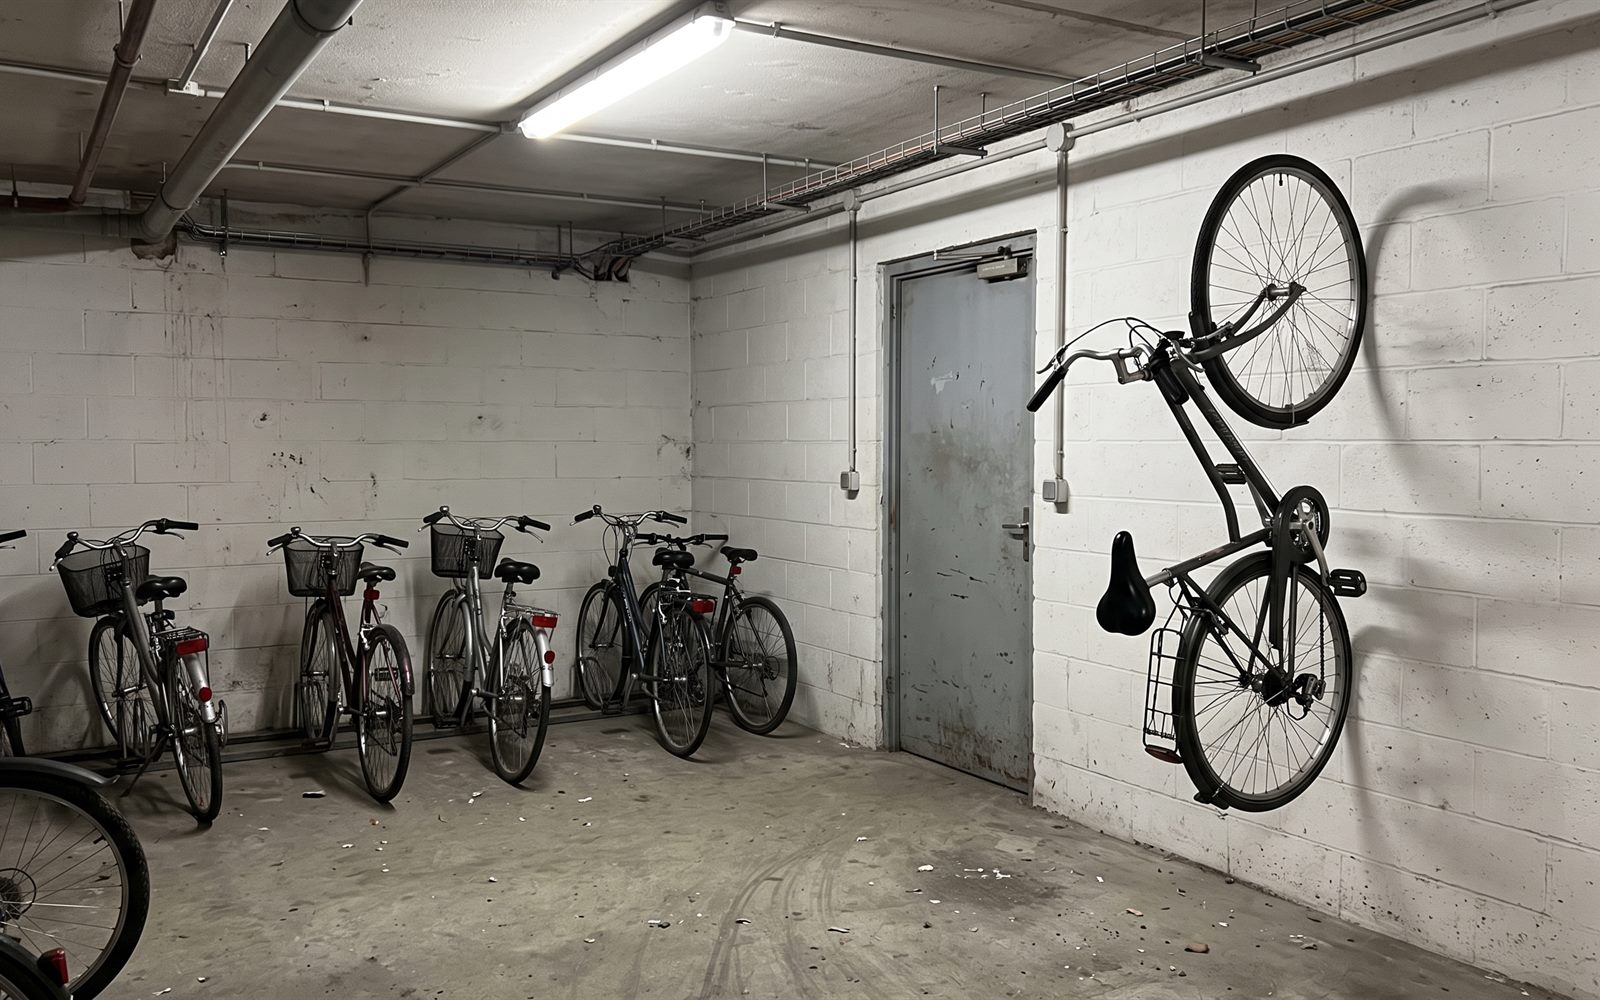
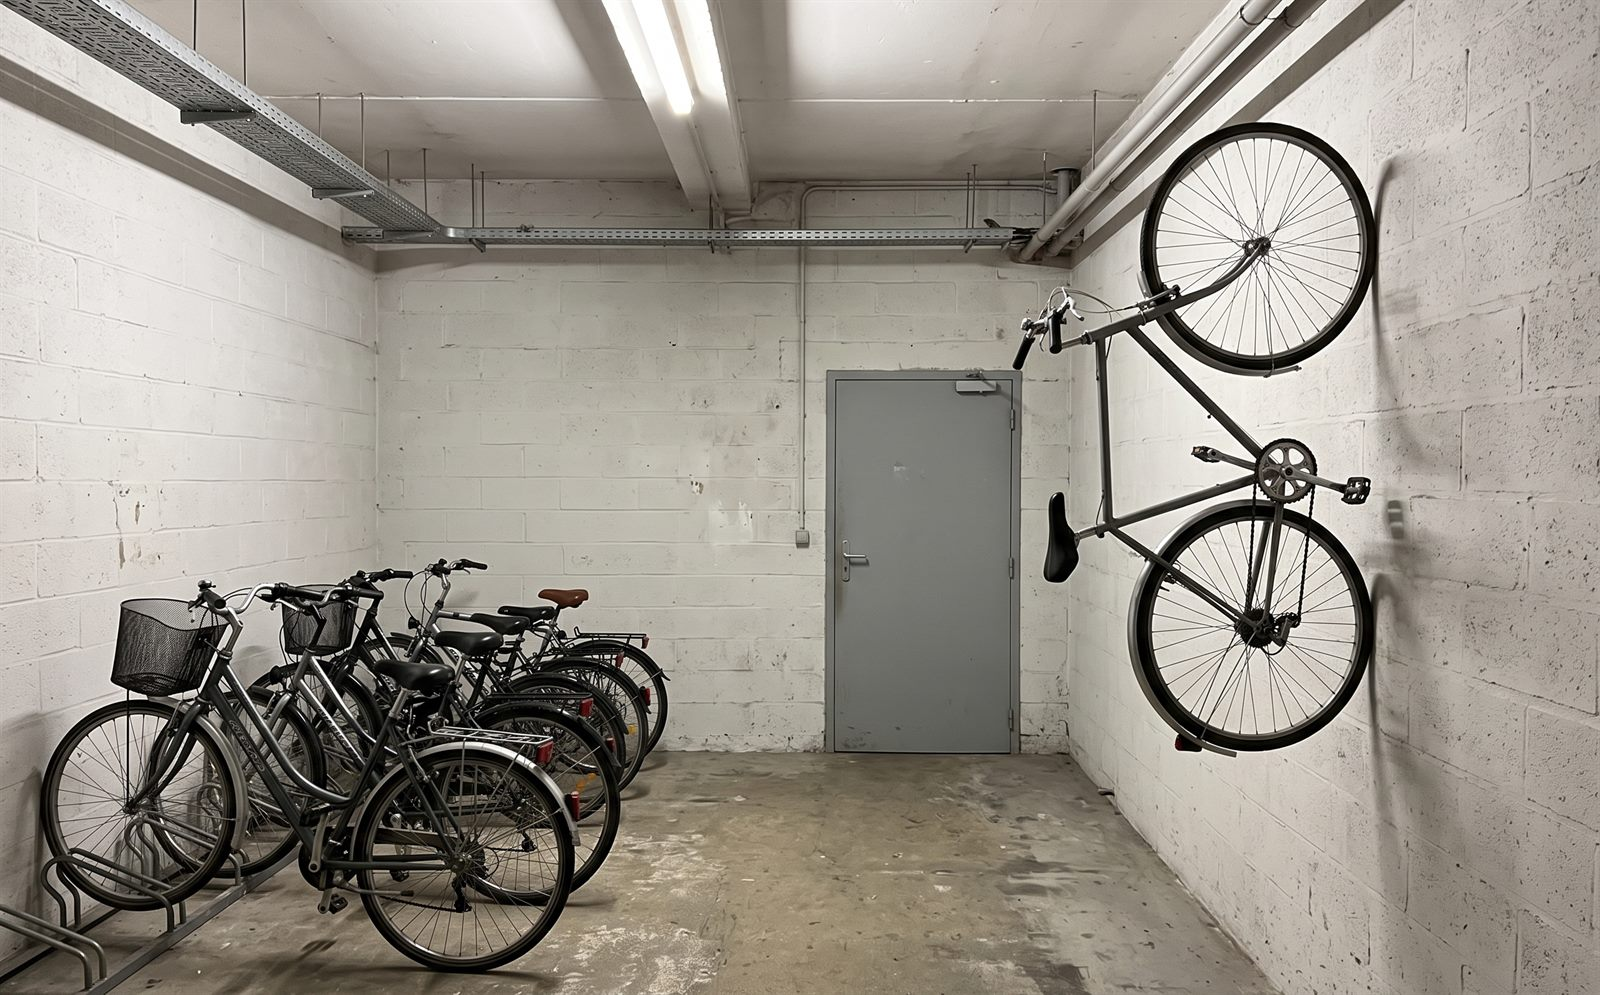
Photo version verticale : vélo vraiment en hauteur

diff --git a/mentions-legales.html b/mentions-legales.html
@@ -13,12 +13,12 @@
   <link rel="icon" href="assets/img/favicon.svg" type="image/svg+xml">
   <link rel="icon" href="assets/img/favicon-32.png" sizes="32x32" type="image/png">
   <link rel="apple-touch-icon" href="assets/img/apple-touch-icon.png">
-  <link rel="stylesheet" href="assets/css/style.css?v=202610162224">
-  <script src="assets/js/config.js?v=202610162224" defer></script>
-  <script src="assets/js/lang/fr.js?v=202610162224" defer></script>
-  <script src="assets/js/i18n.js?v=202610162224" defer></script>
-  <script src="assets/js/consent.js?v=202610162224" defer></script>
-  <script src="assets/js/main.js?v=202610162224" defer></script>
+  <link rel="stylesheet" href="assets/css/style.css?v=202610162228">
+  <script src="assets/js/config.js?v=202610162228" defer></script>
+  <script src="assets/js/lang/fr.js?v=202610162228" defer></script>
+  <script src="assets/js/i18n.js?v=202610162228" defer></script>
+  <script src="assets/js/consent.js?v=202610162228" defer></script>
+  <script src="assets/js/main.js?v=202610162228" defer></script>
 </head>
 <body data-page="mentions">
   <a class="skip-link" href="#contenu" data-i18n="skip">Aller au contenu</a>

diff --git a/confidentialite.html b/confidentialite.html
@@ -13,12 +13,12 @@
   <link rel="icon" href="assets/img/favicon.svg" type="image/svg+xml">
   <link rel="icon" href="assets/img/favicon-32.png" sizes="32x32" type="image/png">
   <link rel="apple-touch-icon" href="assets/img/apple-touch-icon.png">
-  <link rel="stylesheet" href="assets/css/style.css?v=202610162224">
-  <script src="assets/js/config.js?v=202610162224" defer></script>
-  <script src="assets/js/lang/fr.js?v=202610162224" defer></script>
-  <script src="assets/js/i18n.js?v=202610162224" defer></script>
-  <script src="assets/js/consent.js?v=202610162224" defer></script>
-  <script src="assets/js/main.js?v=202610162224" defer></script>
+  <link rel="stylesheet" href="assets/css/style.css?v=202610162228">
+  <script src="assets/js/config.js?v=202610162228" defer></script>
+  <script src="assets/js/lang/fr.js?v=202610162228" defer></script>
+  <script src="assets/js/i18n.js?v=202610162228" defer></script>
+  <script src="assets/js/consent.js?v=202610162228" defer></script>
+  <script src="assets/js/main.js?v=202610162228" defer></script>
 </head>
 <body data-page="privacy">
   <a class="skip-link" href="#contenu" data-i18n="skip">Aller au contenu</a>

diff --git a/cookies.html b/cookies.html
@@ -13,12 +13,12 @@
   <link rel="icon" href="assets/img/favicon.svg" type="image/svg+xml">
   <link rel="icon" href="assets/img/favicon-32.png" sizes="32x32" type="image/png">
   <link rel="apple-touch-icon" href="assets/img/apple-touch-icon.png">
-  <link rel="stylesheet" href="assets/css/style.css?v=202610162224">
-  <script src="assets/js/config.js?v=202610162224" defer></script>
-  <script src="assets/js/lang/fr.js?v=202610162224" defer></script>
-  <script src="assets/js/i18n.js?v=202610162224" defer></script>
-  <script src="assets/js/consent.js?v=202610162224" defer></script>
-  <script src="assets/js/main.js?v=202610162224" defer></script>
+  <link rel="stylesheet" href="assets/css/style.css?v=202610162228">
+  <script src="assets/js/config.js?v=202610162228" defer></script>
+  <script src="assets/js/lang/fr.js?v=202610162228" defer></script>
+  <script src="assets/js/i18n.js?v=202610162228" defer></script>
+  <script src="assets/js/consent.js?v=202610162228" defer></script>
+  <script src="assets/js/main.js?v=202610162228" defer></script>
 </head>
 <body data-page="cookies">
   <a class="skip-link" href="#contenu" data-i18n="skip">Aller au contenu</a>

diff --git a/cgu.html b/cgu.html
@@ -13,12 +13,12 @@
   <link rel="icon" href="assets/img/favicon.svg" type="image/svg+xml">
   <link rel="icon" href="assets/img/favicon-32.png" sizes="32x32" type="image/png">
   <link rel="apple-touch-icon" href="assets/img/apple-touch-icon.png">
-  <link rel="stylesheet" href="assets/css/style.css?v=202610162224">
-  <script src="assets/js/config.js?v=202610162224" defer></script>
-  <script src="assets/js/lang/fr.js?v=202610162224" defer></script>
-  <script src="assets/js/i18n.js?v=202610162224" defer></script>
-  <script src="assets/js/consent.js?v=202610162224" defer></script>
-  <script src="assets/js/main.js?v=202610162224" defer></script>
+  <link rel="stylesheet" href="assets/css/style.css?v=202610162228">
+  <script src="assets/js/config.js?v=202610162228" defer></script>
+  <script src="assets/js/lang/fr.js?v=202610162228" defer></script>
+  <script src="assets/js/i18n.js?v=202610162228" defer></script>
+  <script src="assets/js/consent.js?v=202610162228" defer></script>
+  <script src="assets/js/main.js?v=202610162228" defer></script>
 </head>
 <body data-page="terms">
   <a class="skip-link" href="#contenu" data-i18n="skip">Aller au contenu</a>

diff --git a/index.html b/index.html
@@ -30,12 +30,12 @@
   <link rel="icon" href="assets/img/favicon.svg" type="image/svg+xml">
   <link rel="icon" href="assets/img/favicon-32.png" sizes="32x32" type="image/png">
   <link rel="apple-touch-icon" href="assets/img/apple-touch-icon.png">
-  <link rel="stylesheet" href="assets/css/style.css?v=202610162224">
-  <script src="assets/js/config.js?v=202610162224" defer></script>
-  <script src="assets/js/lang/fr.js?v=202610162224" defer></script>
-  <script src="assets/js/i18n.js?v=202610162224" defer></script>
-  <script src="assets/js/consent.js?v=202610162224" defer></script>
-  <script src="assets/js/main.js?v=202610162224" defer></script>
+  <link rel="stylesheet" href="assets/css/style.css?v=202610162228">
+  <script src="assets/js/config.js?v=202610162228" defer></script>
+  <script src="assets/js/lang/fr.js?v=202610162228" defer></script>
+  <script src="assets/js/i18n.js?v=202610162228" defer></script>
+  <script src="assets/js/consent.js?v=202610162228" defer></script>
+  <script src="assets/js/main.js?v=202610162228" defer></script>
 </head>
 <body data-page="index">
   <a class="skip-link" href="#contenu" data-i18n="skip">Aller au contenu</a>

diff --git a/404.html b/404.html
@@ -12,12 +12,12 @@
   <!-- Chemins absolus : cette page peut s'afficher à n'importe quelle adresse du site -->
   <link rel="icon" href="/assets/img/favicon.svg" type="image/svg+xml">
   <link rel="icon" href="/assets/img/favicon-32.png" sizes="32x32" type="image/png">
-  <link rel="stylesheet" href="/assets/css/style.css?v=202610162224">
-  <script src="/assets/js/config.js?v=202610162224" defer></script>
-  <script src="/assets/js/lang/fr.js?v=202610162224" defer></script>
-  <script src="/assets/js/i18n.js?v=202610162224" defer></script>
-  <script src="/assets/js/consent.js?v=202610162224" defer></script>
-  <script src="/assets/js/main.js?v=202610162224" defer></script>
+  <link rel="stylesheet" href="/assets/css/style.css?v=202610162228">
+  <script src="/assets/js/config.js?v=202610162228" defer></script>
+  <script src="/assets/js/lang/fr.js?v=202610162228" defer></script>
+  <script src="/assets/js/i18n.js?v=202610162228" defer></script>
+  <script src="/assets/js/consent.js?v=202610162228" defer></script>
+  <script src="/assets/js/main.js?v=202610162228" defer></script>
 </head>
 <body data-page="notfound">
   <header class="site-header">

diff --git a/confirme.html b/confirme.html
@@ -12,12 +12,12 @@
   <link rel="icon" href="assets/img/favicon.svg" type="image/svg+xml">
   <link rel="icon" href="assets/img/favicon-32.png" sizes="32x32" type="image/png">
   <link rel="apple-touch-icon" href="assets/img/apple-touch-icon.png">
-  <link rel="stylesheet" href="assets/css/style.css?v=202610162224">
-  <script src="assets/js/config.js?v=202610162224" defer></script>
-  <script src="assets/js/lang/fr.js?v=202610162224" defer></script>
-  <script src="assets/js/i18n.js?v=202610162224" defer></script>
-  <script src="assets/js/consent.js?v=202610162224" defer></script>
-  <script src="assets/js/main.js?v=202610162224" defer></script>
+  <link rel="stylesheet" href="assets/css/style.css?v=202610162228">
+  <script src="assets/js/config.js?v=202610162228" defer></script>
+  <script src="assets/js/lang/fr.js?v=202610162228" defer></script>
+  <script src="assets/js/i18n.js?v=202610162228" defer></script>
+  <script src="assets/js/consent.js?v=202610162228" defer></script>
+  <script src="assets/js/main.js?v=202610162228" defer></script>
 </head>
 <body data-page="confirmed">
   <header class="site-header">

diff --git a/merci.html b/merci.html
@@ -12,12 +12,12 @@
   <link rel="icon" href="assets/img/favicon.svg" type="image/svg+xml">
   <link rel="icon" href="assets/img/favicon-32.png" sizes="32x32" type="image/png">
   <link rel="apple-touch-icon" href="assets/img/apple-touch-icon.png">
-  <link rel="stylesheet" href="assets/css/style.css?v=202610162224">
-  <script src="assets/js/config.js?v=202610162224" defer></script>
-  <script src="assets/js/lang/fr.js?v=202610162224" defer></script>
-  <script src="assets/js/i18n.js?v=202610162224" defer></script>
-  <script src="assets/js/consent.js?v=202610162224" defer></script>
-  <script src="assets/js/main.js?v=202610162224" defer></script>
+  <link rel="stylesheet" href="assets/css/style.css?v=202610162228">
+  <script src="assets/js/config.js?v=202610162228" defer></script>
+  <script src="assets/js/lang/fr.js?v=202610162228" defer></script>
+  <script src="assets/js/i18n.js?v=202610162228" defer></script>
+  <script src="assets/js/consent.js?v=202610162228" defer></script>
+  <script src="assets/js/main.js?v=202610162228" defer></script>
 </head>
 <body data-page="thanks">
   <header class="site-header">

diff --git a/assets/js/main.js b/assets/js/main.js
@@ -182,7 +182,7 @@
 
   // ---------- Images (photos / images IA) déclarées dans config.js ----------
   var photos = (window.CICLIFT_CONFIG || {}).photos || {};
-  var PHOTO_VER = "202610162224"; // mis à jour par tools/version.ps1 (anti-cache)
+  var PHOTO_VER = "202610162228"; // mis à jour par tools/version.ps1 (anti-cache)
   function renderPhotos() {
     document.querySelectorAll("[data-photo]").forEach(function (box) {
       var file = photos[box.getAttribute("data-photo")];
